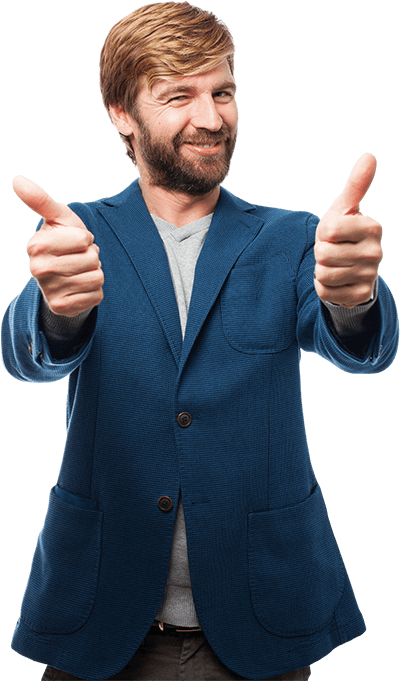
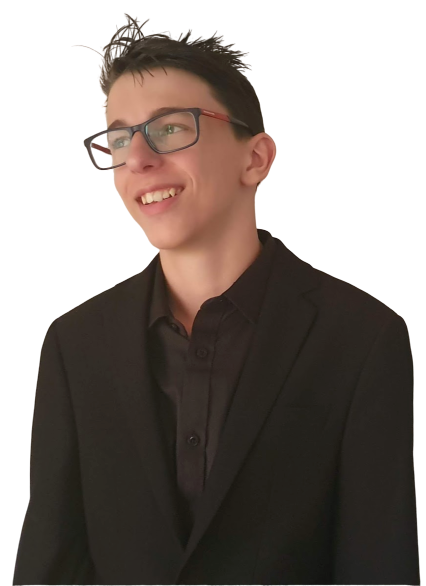
a

diff --git a/index.html b/index.html
@@ -129,12 +129,12 @@
             <h1 class="cd-headline letters scale mb-2">
               <span class="d-block text-theme">Hi I'm</span> 
               <span class="cd-words-wrapper text-black">
-                <b class="is-visible">James haldoe</b>
-                <b>Web Designer</b>
-                <b>Web Developer</b>
+                <b class="is-visible">Liam Arbuckle</b>
+                <b>a web designer</b>
+                <b> a games Developer</b>
               </span>
             </h1>
-          <p class="text-black lead mb-3">We Are Develop To Your Business, let's Build Something<br> Great And Creative For You</p>
+          <p class="text-black lead mb-3">I'm here to develop your ideas and <br> build something great</p>
           <a class="btn btn-theme btn-radius" href="#"> <span>Hire Me</span>
           </a>
           <a class="btn btn-dark btn-radius page-scroll" href="#about"> <span>learn More</span>
